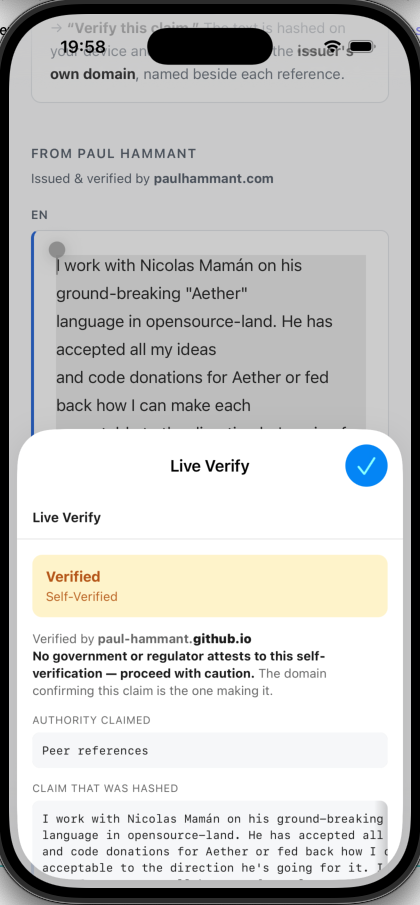
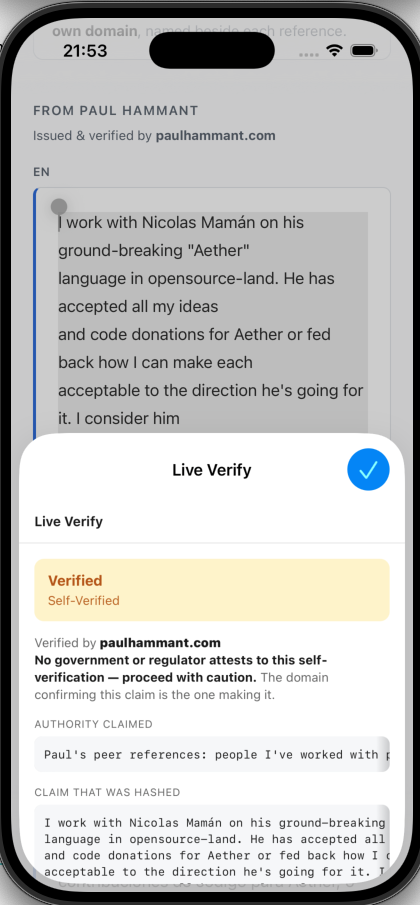
Blog: new screenshot and the domain section rewritten around the fix it exposed
The post shipped an hour before the authority-display fix, so its
screenshot and its whole "read the domain" section argued from behaviour
that no longer exists — it showed "Verified by paul-hammant.github.io"
with github.io bolded as the accountable party.

New screenshot from the current build: "Verified by paulhammant.com", and
the fuller authorityBasis line the live metadata actually carries.

The section is now the story of the bug rather than an argument from it:
the app credited GitHub because hash files are parked on Pages via
hashesHostedAt and every client derived the displayed domain from wherever
the file lived, so a claim naming paulhammant.com was reported as verified
by a domain the document never mentions — and the registrable-domain
emphasis then put the weight on github.io, telling readers GitHub stands
behind my opinion of a colleague. Keeps the emphasis explanation, which
still applies when a verify: line genuinely names a shared host, and ends
on the open question that raises: GitHub gets no say in appearing beside a
tenant's claim.

diff --git a/public/blog/amber-is-the-honest-answer.html b/public/blog/amber-is-the-honest-answer.html
@@ -103,7 +103,7 @@
             answered, nothing failed. And the app deliberately refused to show you green.</p>
 
             <figure>
-                <img src="images/safari-extension-self-verified.png" alt="Live Verify running as a Safari extension on iOS. An amber panel reads Verified, Self-Verified. Below: Verified by paul-hammant.github.io with github.io in bold; No government or regulator attests to this self-verification — proceed with caution; Authority claimed: Peer references; and the claim text that was hashed.">
+                <img src="images/safari-extension-self-verified.png" alt="Live Verify running as a Safari extension on iOS. An amber panel reads Verified, Self-Verified. Below: Verified by paulhammant.com in bold; No government or regulator attests to this self-verification — proceed with caution; Authority claimed, giving the issuer's own one-line statement of what backs these references; and the claim text that was hashed.">
                 <figcaption>A real peer reference, verified. Amber, not green &mdash; and every line
                 under the verdict is there to stop you over-reading it.</figcaption>
             </figure>
@@ -145,7 +145,7 @@
             by a fully walked chain of endorsers. Two completely different trust situations, one
             colour. That is fixed everywhere now.</p>
 
-            <h2>&ldquo;Authority claimed: Peer references&rdquo;</h2>
+            <h2>&ldquo;Authority claimed&rdquo;</h2>
 
             <p>An issuer can publish one line stating what kind of authority stands behind its
             verifications. A tax authority says so. A university says so. Mine says <em>Peer
@@ -162,22 +162,47 @@
             distinguishes &ldquo;national tax authority&rdquo; from &ldquo;bloke with opinions&rdquo;
             was invisible in precisely the case where it carries the most weight.</p>
 
-            <h2>Read the domain, not the subdomain</h2>
+            <h2>Read the domain the document named</h2>
 
-            <p>Look at the attribution line: <code>paul-hammant.<strong>github.io</strong></code>, with
-            the tail in bold.</p>
+            <p>Look at the attribution line: <strong>paulhammant.com</strong>. That is the domain
+            printed beside the reference, and the domain a reader would judge.</p>
 
-            <p>Earlier versions showed only <code>github.io</code>. That was a defensive choice &mdash;
-            anyone can take a GitHub Pages subdomain, so a hostname like
-            <code>edinburgh.ac.uk--___dir.github.io</code> must never be allowed to display as if it
-            were Edinburgh. But collapsing to the suffix also hid <em>who</em> the tenant was.</p>
+            <p>It did not say that until I wrote this post. It said
+            <code>paul-hammant.github.io</code>.</p>
 
-            <p>Showing the whole hostname with the registrable part emphasised does both jobs at once.
-            You see the tenant name, and the weight sits on the part that someone actually registered,
-            renews, is billed for, and can be compelled or seized over. On a shared host, the bit before
-            the dot is just a tenancy. The spoof case is the one that proves the design:
-            <code>edinburgh.ac.uk--___dir.<strong>github.io</strong></code> shows you the deception and
-            where the real accountability lies, in the same string.</p>
+            <p>My hash files are parked on GitHub Pages. My metadata declares that with a
+            <code>hashesHostedAt</code> field, and every client was deriving the displayed domain
+            from wherever the hash file turned out to live &mdash; so a claim naming
+            <code>paulhammant.com</code> was being reported as verified by a domain the document
+            never mentions. The human reads one name on the page and the app announces another,
+            which is precisely the confusion this project exists to remove. Worse: because the app
+            emphasises the registrable domain, it was putting the weight on
+            <strong>github.io</strong> &mdash; telling readers that <em>GitHub</em> stands behind my
+            opinion of a colleague.</p>
+
+            <p>The rule it should have followed: Barclays could employ a verification provider for a
+            couple of years and then bring it all in-house, and nothing should stop working or look
+            different. Where the bytes live is infrastructure, like a CDN. Nobody prints
+            &ldquo;served by Akamai&rdquo; beside a bank&rsquo;s name.</p>
+
+            <p>So the displayed authority now comes from the <code>verify:</code> line in every
+            client, and the function that checks a hash takes that domain as a required argument
+            &mdash; it throws rather than guess. Hosting moved out of the trust display entirely.</p>
+
+            <p>The emphasis logic still matters, though, for claims whose <code>verify:</code> line
+            <em>does</em> name a shared host. Showing the whole hostname with the registrable part in
+            bold does two jobs at once: you see who the tenant is, and the weight sits on the part
+            someone actually registered, renews, is billed for, and can be compelled or seized over.
+            The spoof case proves it &mdash;
+            <code>edinburgh.ac.uk--___dir.<strong>github.io</strong></code> shows you the deception
+            and the real accountability in a single string.</p>
+
+            <p>Which leaves an open question we have started writing down rather than answering: when
+            a claim is published on <code>foo.github.io</code>, GitHub&rsquo;s name ends up beside a
+            claim it has never seen, and GitHub has no say in that. The mirror image of an issuer
+            naming its endorser would be a namespace operator disowning its tenants &mdash; a file at
+            the suffix itself saying &ldquo;this verification is not endorsed by us&rdquo;. It is
+            worth nothing until an operator publishes one.</p>
 
             <h2>The claim, on its own lines</h2>
 

diff --git a/docs/blog-draft-amber-is-the-honest-answer.md b/docs/blog-draft-amber-is-the-honest-answer.md
@@ -8,7 +8,7 @@ Here is a verification that succeeded. The hash matched, the issuer's domain ans
 failed. And the app deliberately refused to show you green.
 
 ![Live Verify running as a Safari extension on iOS: an amber "Verified / Self-Verified" panel,
-"Verified by paul-hammant.**github.io**", the caution line, "Authority claimed: Peer references",
+"Verified by **paulhammant.com**", the caution line, "Authority claimed" with the issuer's own one-line statement,
 and the exact claim text that was hashed.](../public/blog/images/safari-extension-self-verified.png)
 
 This is Live Verify running as a **Safari Web Extension on iOS**, which is new. Select a claim on a
@@ -45,10 +45,10 @@ The colour matters more than it sounds. On one of our clients, self-verified cla
 on the *confirmed green* background, pixel-identical to a claim backed by a fully walked chain of
 endorsers. Two completely different trust situations, one colour. That is fixed everywhere now.
 
-## "Authority claimed: Peer references"
+## "Authority claimed"
 
 An issuer can publish one line stating what kind of authority stands behind its verifications. A tax
-authority says so. A university says so. Mine says *Peer references*, because that is what it is.
+authority says so. A university says so. Mine says *"Paul's peer references: people I've worked with previously that I rate"*, because that is what it is.
 
 The label above it reads **Authority claimed**, and the word is doing deliberate work. Nobody has
 endorsed that sentence. It is me describing myself, presented as such. When there *is* an endorser in
@@ -60,19 +60,41 @@ that reads it sat behind a check for an endorser, so the one line that distingui
 authority" from "bloke with opinions" was invisible in precisely the case where it carries the most
 weight.
 
-## Read the domain, not the subdomain
+## Read the domain the document named
 
-Look at the attribution line: `paul-hammant.`**`github.io`**, with the tail in bold.
+Look at the attribution line: **paulhammant.com**. That is the domain printed beside the reference,
+and the domain a reader would judge.
 
-Earlier versions showed only `github.io`. That was a defensive choice — anyone can take a GitHub
-Pages subdomain, so a hostname like `edinburgh.ac.uk--___dir.github.io` must never be allowed to
-display as if it were Edinburgh. But collapsing to the suffix also hid *who* the tenant was.
+It did not say that until I wrote this post. It said `paul-hammant.github.io`.
 
-Showing the whole hostname with the registrable part emphasised does both jobs at once. You see the
-tenant name, and the weight sits on the part that someone actually registered, renews, is billed for,
-and can be compelled or seized over. On a shared host, the bit before the dot is just a tenancy. The
-spoof case is the one that proves the design: `edinburgh.ac.uk--___dir.`**`github.io`** shows you the
-deception and where the real accountability lies, in the same string.
+My hash files are parked on GitHub Pages. My metadata declares that with a `hashesHostedAt` field,
+and every client was deriving the displayed domain from wherever the hash file turned out to live —
+so a claim naming `paulhammant.com` was being reported as verified by a domain the document never
+mentions. The human reads one name on the page and the app announces another, which is precisely the
+confusion this project exists to remove. Worse: because the app emphasises the registrable domain, it
+was putting the weight on **github.io** — telling readers that *GitHub* stands behind my opinion of a
+colleague.
+
+The rule it should have followed: Barclays could employ a verification provider for a couple of years
+and then bring it all in-house, and nothing should stop working or look different. Where the bytes
+live is infrastructure, like a CDN. Nobody prints "served by Akamai" beside a bank's name.
+
+So the displayed authority now comes from the `verify:` line in every client, and the function that
+checks a hash takes that domain as a required argument — it throws rather than guess. Hosting moved
+out of the trust display entirely.
+
+The emphasis logic still matters, though, for claims whose `verify:` line *does* name a shared host.
+Showing the whole hostname with the registrable part in bold does two jobs at once: you see who the
+tenant is, and the weight sits on the part someone actually registered, renews, is billed for, and
+can be compelled or seized over. The spoof case proves it —
+`edinburgh.ac.uk--___dir.`**`github.io`** shows you the deception and the real accountability in a
+single string.
+
+Which leaves an open question we have started writing down rather than answering: when a claim is
+published on `foo.github.io`, GitHub's name ends up beside a claim it has never seen, and GitHub has
+no say in that. The mirror image of an issuer naming its endorser would be a namespace operator
+disowning its tenants — a file at the suffix itself saying "this verification is not endorsed by us".
+It is worth nothing until an operator publishes one.
 
 ## The claim, on its own lines
 
